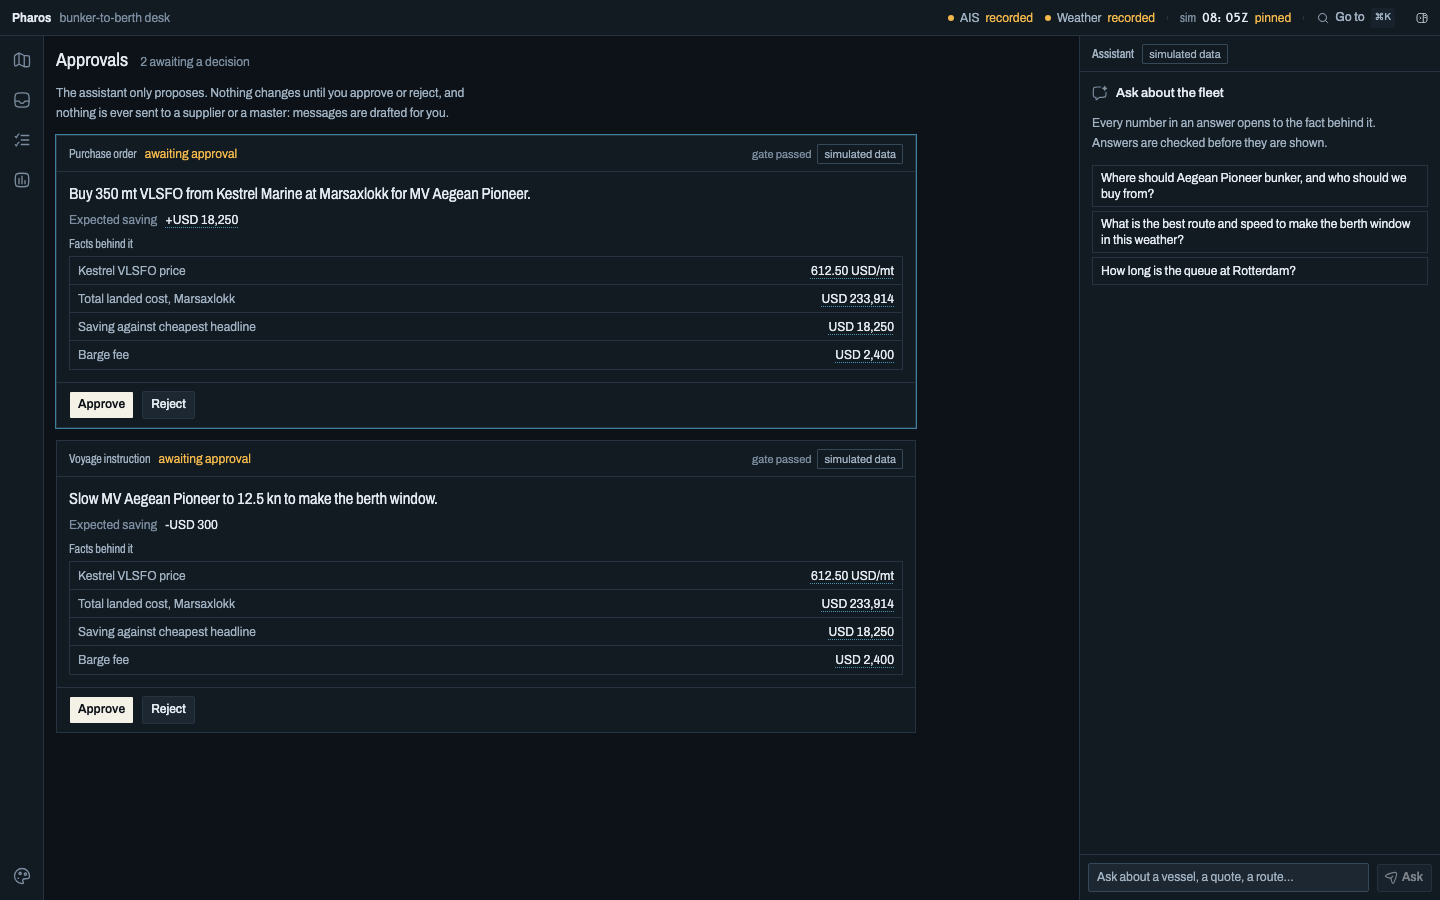
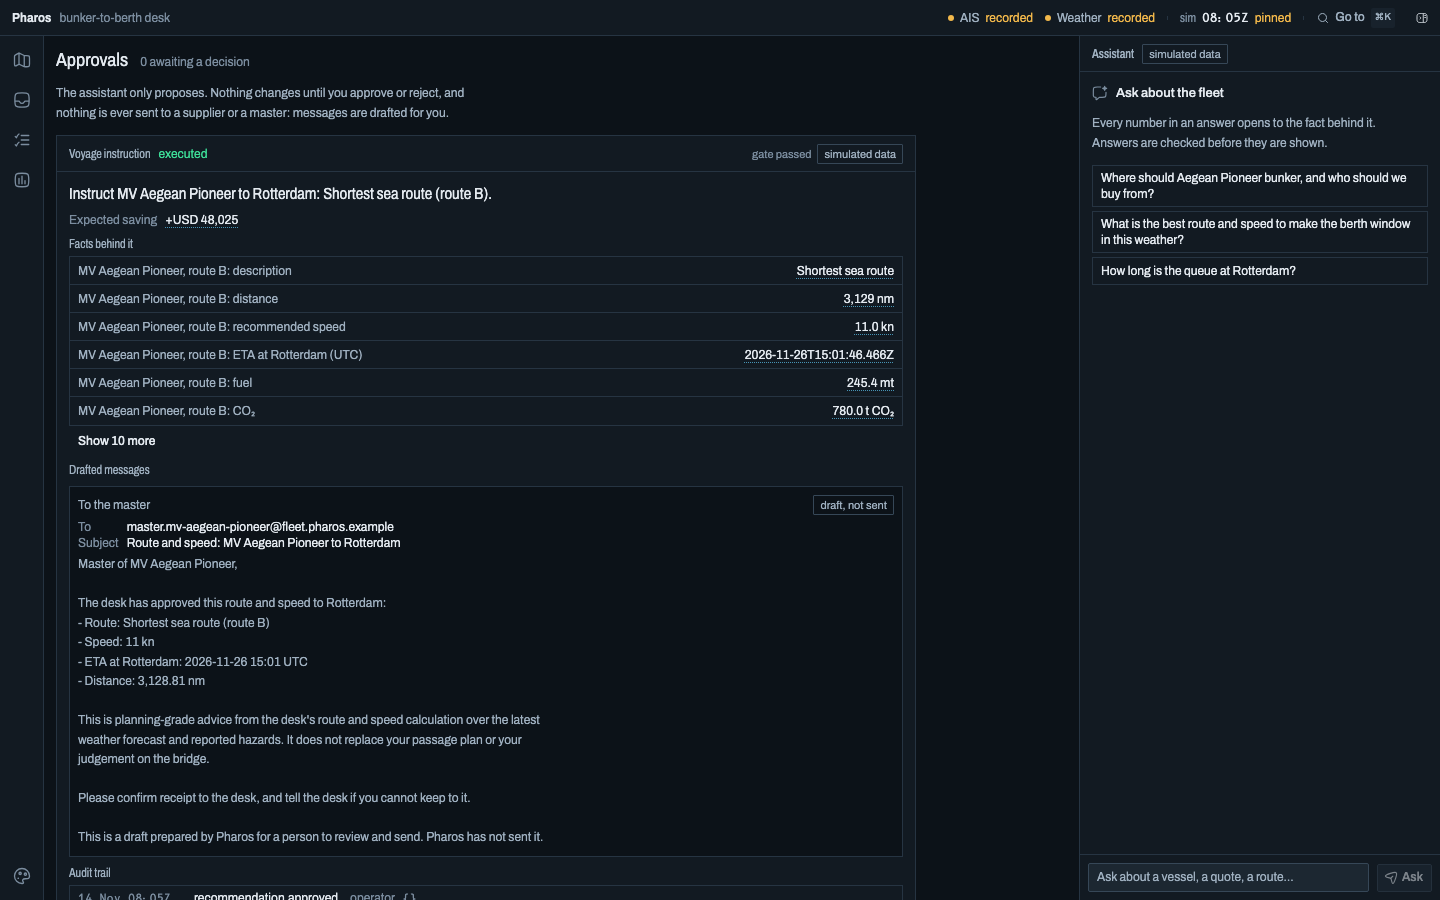
Phase 6: fresh real-data screenshot set and README

diff --git a/docs/screenshots/phase-6/README.md b/docs/screenshots/phase-6/README.md
@@ -1,0 +1,22 @@
+# Phase 6 screenshots
+
+All captured from the live replay demo stack (http://localhost:5173, built app) at 2026-11-16T01:41Z, by a read-only Playwright script (navigation, focus and keyboard only; reducedMotion, scale 1). Stack state: two executed recommendations (voyage instruction, purchase order PO-000001), three inbox emails, nothing pending. Sim clock pinned 14 Nov 08:05Z. "Full" shots: viewport grown until no inner scroller overflows (no stitching).
+
+- inbox-mobile.png: inbox list, nothing selected. 390x844.
+- inbox-mobile-detail.png: Algeciras email open (?document=3), accepted with checks. 390x1257.
+- assistant-mobile.png: assistant drawer from the top-bar toggle. 390x844. Caveat: dock conversation is empty (story's chat lives only in the story's browser session), so no answer or fact chips.
+- map-mobile-default.png: map, nothing selected. 390x844.
+- map-mobile-route.png: Aegean Pioneer panel (?vessel=1). 390x844. Caveat: no route tray; it needs a POST plan, panel says "once you plan a route".
+- evaluation-full.png: evaluation page. 1440x1160. evaluation-mobile-full.png: 390x1696.
+- focus-shell.png: 3 Tabs from load on /, sim clock focused with tooltip. 1440x900.
+- focus-cmdk.png: command menu open via Ctrl+K on /. 1440x900.
+- focus-dialog.png: /dev/kit dialog opened by keyboard (Enter on trigger); decides nothing. 1440x900.
+- focus-inbox.png: inbox row focused by keyboard. 1440x900.
+- approvals-final.png: /approvals decided state, full page. 1440x2290. approvals-final-mobile.png: 390x2973.
+- approvals-queue.png, approvals-approved.png: /approvals current state, first fold. 1440x900. No pending card exists now.
+- approvals-mobile.png: /approvals first fold. 390x844. Caveat: no pending card.
+- approvals-approve-dialog.png: copy of focus-dialog.png (kit dialog); the real queue has no pending card to approve.
+- map-default.png: map, nothing selected. 1440x900. map-vessel-panel.png: ?vessel=1. 1440x900.
+- inbox-evidence.png: Kestrel quote, Supplier row focused/hovered, evidence highlighted in the email. 1440x900.
+- inbox-review-form.png: Algeciras email (?document=3), accepted outcome. 1440x900.
+- assistant-answer-chip.png: NOT recaptured (no conversation available); older mocked file left as is, stale.
